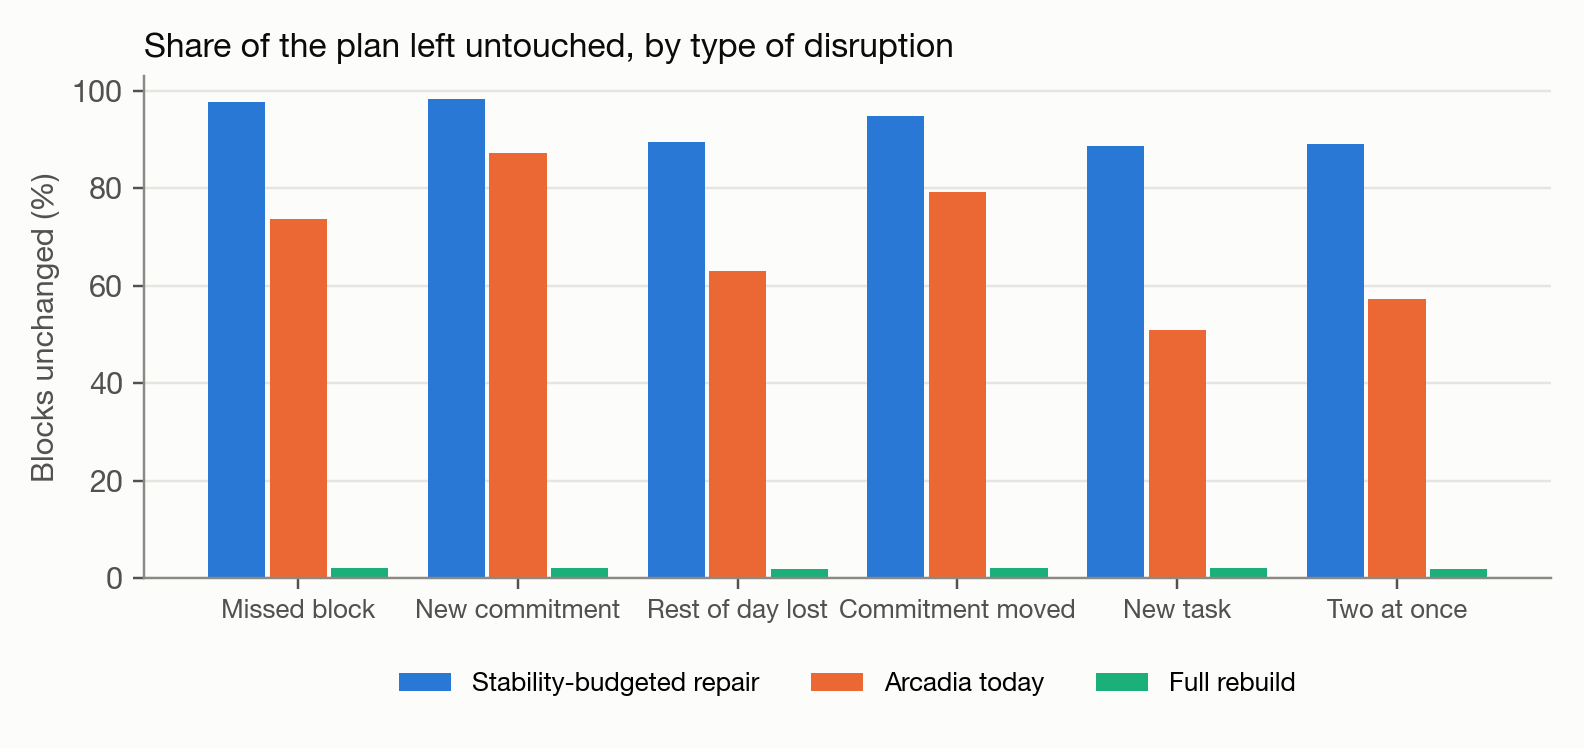
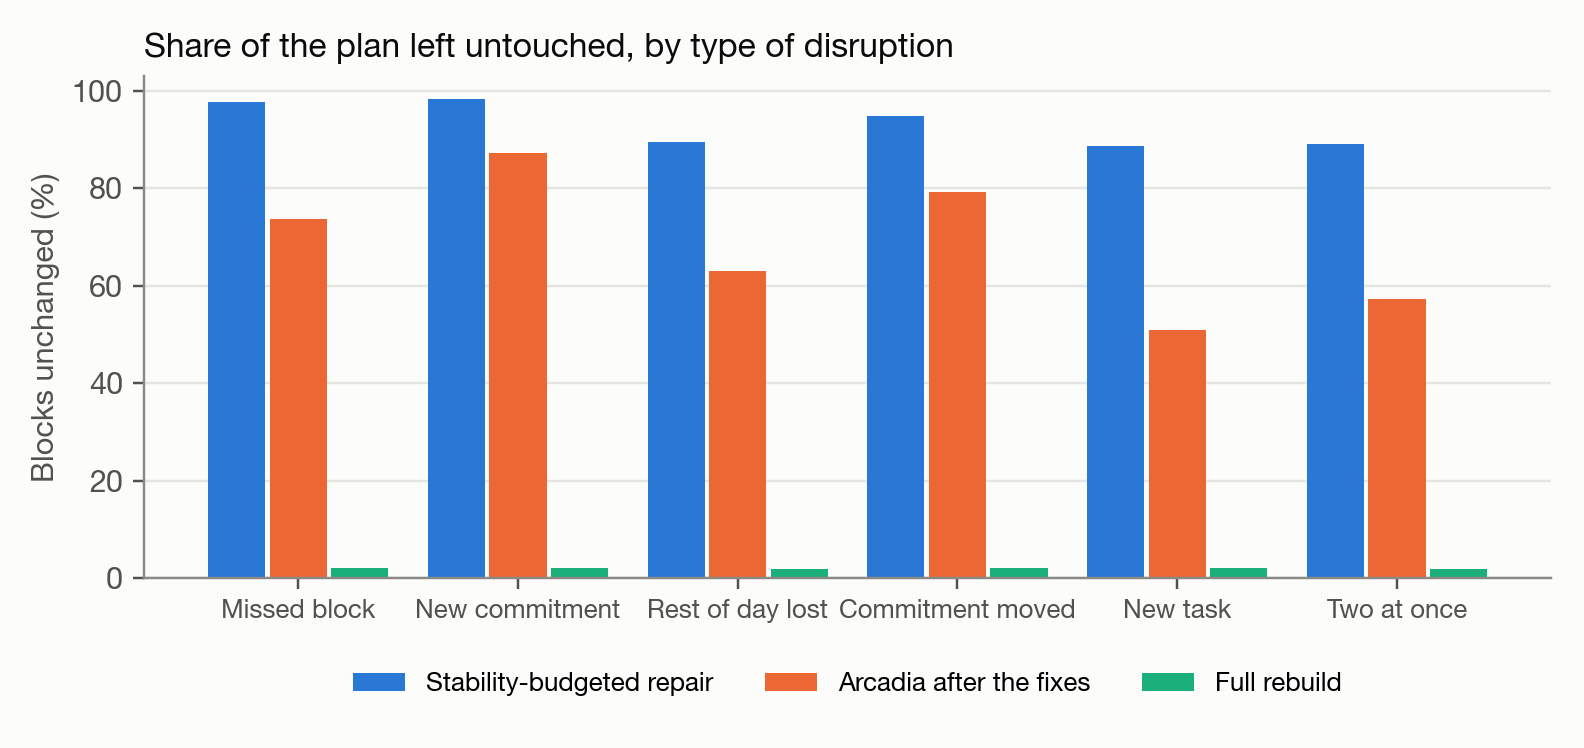
research: regenerate robustness analysis with corrected labels

Changed region(s): [[0.2165, 0.8917, 0.8662, 0.9225]]

diff --git a/backend/research/results/2026-10-05-fixed-arcadia-confirmatory/analysis/summary.md b/backend/research/results/2026-10-05-fixed-arcadia-confirmatory/analysis/summary.md
@@ -3,11 +3,11 @@
 | Method | Plans breaking a rule | Coverage (95% CI) | Tasks fully prepared | Blocks unchanged (95% CI) | Disruption cost, mean (median) | Run time p95 / max |
 |---|---|---|---|---|---|---|
 | Insert into gaps (EDF) | 0.0% | 97.53% (97.39 to 97.66) | 95.6% | 97.8% (97.6 to 97.9) | 2.41 (0.13) | 2 / 15 ms |
-| Arcadia today | 0.0% | 99.18% (99.09 to 99.26) | 98.0% | 68.5% (67.7 to 69.3) | 11.42 (7.00) | 4 / 18 ms |
+| Arcadia after the fixes | 0.0% | 99.18% (99.09 to 99.26) | 98.0% | 68.5% (67.7 to 69.3) | 11.42 (7.00) | 4 / 18 ms |
 | Full rebuild | 0.0% | 99.49% (99.42 to 99.56) | 98.9% | 2.0% (1.9 to 2.1) | 25.56 (23.14) | 1 / 4 ms |
 | Stability-budgeted repair | 0.0% | 99.49% (99.42 to 99.56) | 98.8% | 93.0% (92.7 to 93.3) | 4.54 (1.17) | 245 / 613 ms |
 
-Best possible coverage (exact bound): 99.65%. Valid plans above it: 0. Certificate beaten: 0. Scenarios proven short of time: 369.
+Upper bound on coverage: 99.65%. Valid plans above it: 0. Certificate beaten: 0. Scenarios proven short of time: 369.
 
 ## M4 against each baseline (paired Wilcoxon, Holm-corrected)
 
@@ -16,9 +16,9 @@ Best possible coverage (exact bound): 99.65%. Valid plans above it: 0. Certifica
 | Insert into gaps (EDF) | coverage | +1.97 pts (+1.86 to +2.09) | 1795 / 1 | 2.9e-294 | +1.00 |
 | Insert into gaps (EDF) | unchanged | -4.74 pts (-5.04 to -4.46) | 0 / 1796 | 2.9e-294 | -1.00 |
 | Insert into gaps (EDF) | disruption cost | +2.14 (+1.99 to +2.29) | 734 / 1675 | 4.1e-182 | +0.68 |
-| Arcadia today | coverage | +0.32 pts (+0.29 to +0.35) | 713 / 83 | 3.9e-110 | +0.91 |
-| Arcadia today | unchanged | +24.51 pts (+23.91 to +25.14) | 3931 / 84 | 0.0e+00 | +0.98 |
-| Arcadia today | disruption cost | -6.88 (-7.12 to -6.64) | 3911 / 273 | 0.0e+00 | -0.93 |
+| Arcadia after the fixes | coverage | +0.32 pts (+0.29 to +0.35) | 713 / 83 | 3.9e-110 | +0.91 |
+| Arcadia after the fixes | unchanged | +24.51 pts (+23.91 to +25.14) | 3931 / 84 | 0.0e+00 | +0.98 |
+| Arcadia after the fixes | disruption cost | -6.88 (-7.12 to -6.64) | 3911 / 273 | 0.0e+00 | -0.93 |
 | Full rebuild | coverage | +0.00 pts (-0.00 to +0.01) | 188 / 196 | 3.6e-01 | +0.05 |
 | Full rebuild | unchanged | +91.02 pts (+90.67 to +91.36) | 5000 / 0 | 0.0e+00 | +1.00 |
 | Full rebuild | disruption cost | -21.02 (-21.29 to -20.75) | 5000 / 0 | 0.0e+00 | -1.00 |

diff --git a/backend/research/results/2026-10-05-fixed-arcadia-heldout/analysis/summary.md b/backend/research/results/2026-10-05-fixed-arcadia-heldout/analysis/summary.md
@@ -3,11 +3,11 @@
 | Method | Plans breaking a rule | Coverage (95% CI) | Tasks fully prepared | Blocks unchanged (95% CI) | Disruption cost, mean (median) | Run time p95 / max |
 |---|---|---|---|---|---|---|
 | Insert into gaps (EDF) | 0.0% | 97.77% (97.40 to 98.12) | 95.4% | 97.4% (96.8 to 98.0) | 2.69 (0.00) | 2 / 5 ms |
-| Arcadia today | 0.0% | 99.22% (98.95 to 99.45) | 98.1% | 67.5% (65.1 to 69.9) | 12.09 (7.76) | 4 / 14 ms |
+| Arcadia after the fixes | 0.0% | 99.22% (98.95 to 99.45) | 98.1% | 67.5% (65.1 to 69.9) | 12.09 (7.76) | 4 / 14 ms |
 | Full rebuild | 0.0% | 99.45% (99.21 to 99.66) | 98.8% | 2.0% (1.8 to 2.2) | 26.26 (23.99) | 1 / 4 ms |
 | Stability-budgeted repair | 0.0% | 99.45% (99.22 to 99.66) | 98.8% | 92.6% (91.5 to 93.6) | 4.80 (1.50) | 276 / 485 ms |
 
-Best possible coverage (exact bound): 99.64%. Valid plans above it: 0. Certificate beaten: 0. Scenarios proven short of time: 33.
+Upper bound on coverage: 99.64%. Valid plans above it: 0. Certificate beaten: 0. Scenarios proven short of time: 33.
 
 ## M4 against each baseline (paired Wilcoxon, Holm-corrected)
 
@@ -16,9 +16,9 @@ Best possible coverage (exact bound): 99.64%. Valid plans above it: 0. Certifica
 | Insert into gaps (EDF) | coverage | +1.69 pts (+1.41 to +1.98) | 191 / 0 | 2.1e-32 | +1.00 |
 | Insert into gaps (EDF) | unchanged | -4.87 pts (-5.80 to -3.98) | 0 / 191 | 2.1e-32 | -1.00 |
 | Insert into gaps (EDF) | disruption cost | +2.11 (+1.64 to +2.61) | 80 / 172 | 6.2e-18 | +0.64 |
-| Arcadia today | coverage | +0.24 pts (+0.15 to +0.34) | 64 / 11 | 6.0e-10 | +0.84 |
-| Arcadia today | unchanged | +25.06 pts (+23.13 to +27.07) | 389 / 16 | 1.4e-63 | +0.97 |
-| Arcadia today | disruption cost | -7.29 (-8.07 to -6.53) | 386 / 35 | 1.1e-59 | -0.92 |
+| Arcadia after the fixes | coverage | +0.24 pts (+0.15 to +0.34) | 64 / 11 | 6.0e-10 | +0.84 |
+| Arcadia after the fixes | unchanged | +25.06 pts (+23.13 to +27.07) | 389 / 16 | 1.4e-63 | +0.97 |
+| Arcadia after the fixes | disruption cost | -7.29 (-8.07 to -6.53) | 386 / 35 | 1.1e-59 | -0.92 |
 | Full rebuild | coverage | +0.01 pts (-0.02 to +0.03) | 20 / 18 | 4.8e-01 | +0.13 |
 | Full rebuild | unchanged | +90.57 pts (+89.43 to +91.66) | 500 / 0 | 4.1e-83 | +1.00 |
 | Full rebuild | disruption cost | -21.46 (-22.35 to -20.57) | 500 / 0 | 1.0e-82 | -1.00 |
